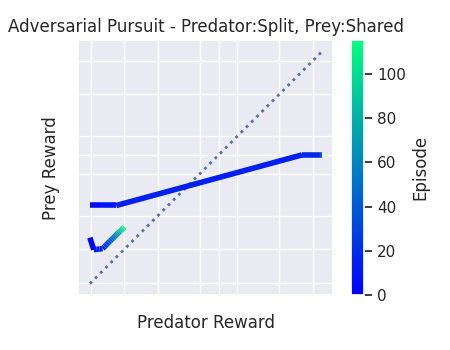
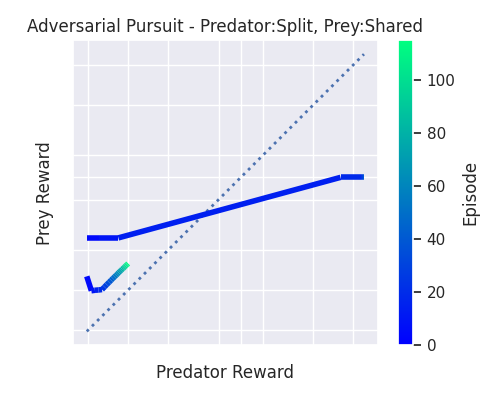
Changed plot shapes

diff --git a/lizards/analysis.py b/lizards/analysis.py
@@ -219,7 +219,7 @@ def main_plotting_fn(team_1, team_2, dtsl=None, dtsr=None, suptitle='None', star
 
 def left_plotting_fn(team_1, team_2, dtsl=None, dtsr=None, suptitle='None', start_offsets=(0, 0), end_offsets=(0, 0), team_1_name='Red',
                      team_2_name='Blue', savename=None):
-    fig, ax = plt.subplots(figsize=(4, 4), tight_layout=True)
+    fig, ax = plt.subplots(figsize=(6, 4), tight_layout=True)
 
     multi_sidebyside_reward_viz(ax, team_1, team_2, dts=dtsl, d1_label=team_1_name, d2_label=team_2_name)
 
@@ -231,7 +231,7 @@ def left_plotting_fn(team_1, team_2, dtsl=None, dtsr=None, suptitle='None', star
 
 def right_plotting_fn(team_1, team_2, dtsl=None, dtsr=None, suptitle='None', start_offsets=(0, 0), end_offsets=(0, 0), team_1_name='Red',
                      team_2_name='Blue', savename=None):
-    fig, ax = plt.subplots(figsize=(4.5, 3.5), tight_layout=True)
+    fig, ax = plt.subplots(figsize=(5, 4), tight_layout=True)
 
     comparative_reward_viz(fig, ax, team_1, team_2, dts=dtsr, start_offsets=start_offsets, end_offsets=end_offsets,
                            xlabel=f"{team_1_name} Reward", ylabel=f"{team_2_name} Reward")
@@ -245,36 +245,36 @@ def right_plotting_fn(team_1, team_2, dtsl=None, dtsr=None, suptitle='None', sta
 
 
 def main():
-    # Battle shared shared plots
-    battle_shared_shared = get_all_result_data("result_data/battle_shared_shared/result.json")
-    main_plotting_fn(battle_shared_shared['red'], battle_shared_shared['blue'],
-                     suptitle='Battle Env - Red:Shared, Blue:Shared', start_offsets=(2, -1), end_offsets=(-17, -1),
-                     savename='plots/Battle-ShSh.png', same_fig=True)
-
-    # Battle shared split plots
-    battle_shared_split = get_all_result_data("result_data/battle_shared_split/result.json")
-    main_plotting_fn(battle_shared_split['red'], battle_shared_split['blue'],
-                     suptitle='Battle Env - Red:Split, Blue:Shared', start_offsets=(2, -1), end_offsets=(-17, -1),
-                     savename='plots/Battle-ShSp.png', same_fig=True)
+    # # Battle shared shared plots
+    # battle_shared_shared = get_all_result_data("result_data/battle_shared_shared/result.json")
+    # main_plotting_fn(battle_shared_shared['red'], battle_shared_shared['blue'],
+    #                  suptitle='Battle Env - Red:Shared, Blue:Shared', start_offsets=(2, -1), end_offsets=(-17, -1),
+    #                  savename='plots/Battle-ShSh.png', same_fig=False)
+    #
+    # # Battle shared split plots
+    # battle_shared_split = get_all_result_data("result_data/battle_shared_split/result.json")
+    # main_plotting_fn(battle_shared_split['red'], battle_shared_split['blue'],
+    #                  suptitle='Battle Env - Red:Split, Blue:Shared', start_offsets=(2, -1), end_offsets=(-17, -1),
+    #                  savename='plots/Battle-ShSp.png', same_fig=False)
 
     # # Battle selfplay plots
     # battle_selfplay = get_result_data("result_data/battle_selfplay/result.json")
     # simple_reward_viz(list(range(len(battle_selfplay['all']))), battle_selfplay['all'],
     #                   plot_title='Battle Env - Self-Play')
 
-    # # AP shared shared plots
-    # ap_shared_shared = get_all_result_data("result_data/ap_shared_shared/result.json")
-    # main_plotting_fn(ap_shared_shared['predator'], ap_shared_shared['prey'],
-    #                  suptitle='Adversarial Pursuit - Predator:Shared, Prey:Shared', start_offsets=(2, 2),
-    #                  end_offsets=(-40, -5), team_1_name='Predator', team_2_name='Prey', dtsl=['max', 'mean'], dtsr=['max', 'mean'],
-    #                  savename='plots/AP-ShSh.png', same_fig=False)
-    #
-    # # AP shared split plots
-    # ap_shared_split = get_all_result_data("result_data/ap_shared_split/result.json")
-    # main_plotting_fn(ap_shared_split['predator'], ap_shared_split['prey'],
-    #                  suptitle='Adversarial Pursuit - Predator:Split, Prey:Shared', start_offsets=(-50, -160),
-    #                  end_offsets=(-300, -170), team_1_name='Predator', team_2_name='Prey', dtsl=['max', 'mean'], dtsr=['max', 'mean'],
-    #                  savename='plots/AP-ShSp.png', same_fig=False)
+    # AP shared shared plots
+    ap_shared_shared = get_all_result_data("result_data/ap_shared_shared/result.json")
+    main_plotting_fn(ap_shared_shared['predator'], ap_shared_shared['prey'],
+                     suptitle='Adversarial Pursuit - Predator:Shared, Prey:Shared', start_offsets=(2, 2),
+                     end_offsets=(-40, -5), team_1_name='Predator', team_2_name='Prey', dtsl=['max', 'mean'], dtsr=['max', 'mean'],
+                     savename='plots/AP-ShSh.png', same_fig=False)
+
+    # AP shared split plots
+    ap_shared_split = get_all_result_data("result_data/ap_shared_split/result.json")
+    main_plotting_fn(ap_shared_split['predator'], ap_shared_split['prey'],
+                     suptitle='Adversarial Pursuit - Predator:Split, Prey:Shared', start_offsets=(-50, -160),
+                     end_offsets=(-300, -170), team_1_name='Predator', team_2_name='Prey', dtsl=['max', 'mean'], dtsr=['max', 'mean'],
+                     savename='plots/AP-ShSp.png', same_fig=False)
 
 
 if __name__ == '__main__':
